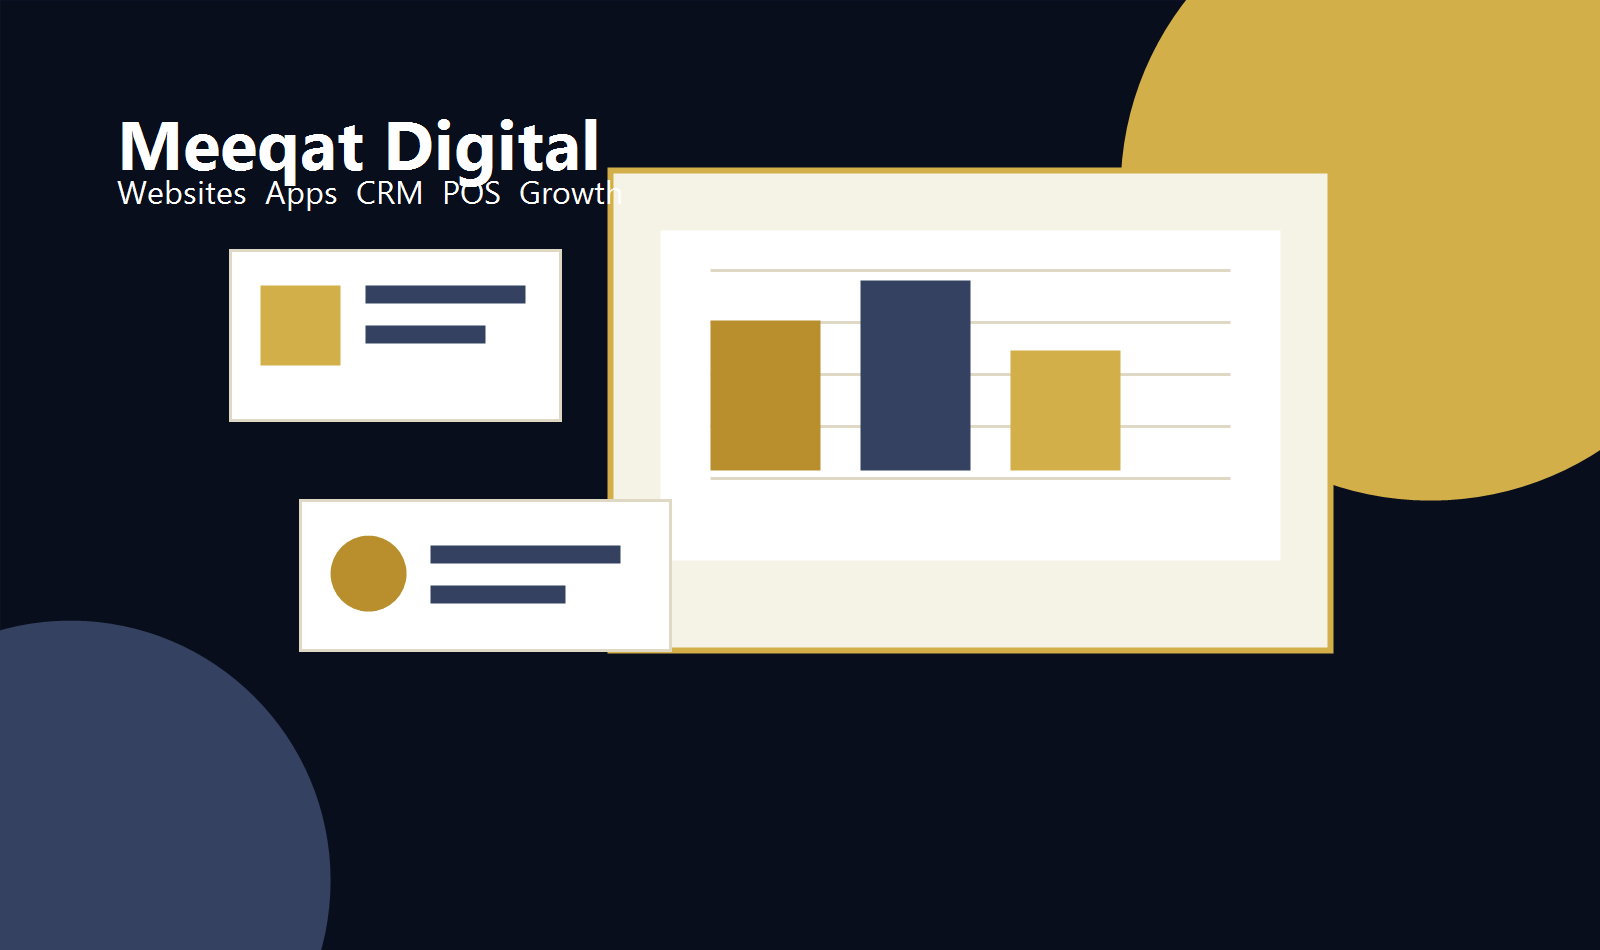
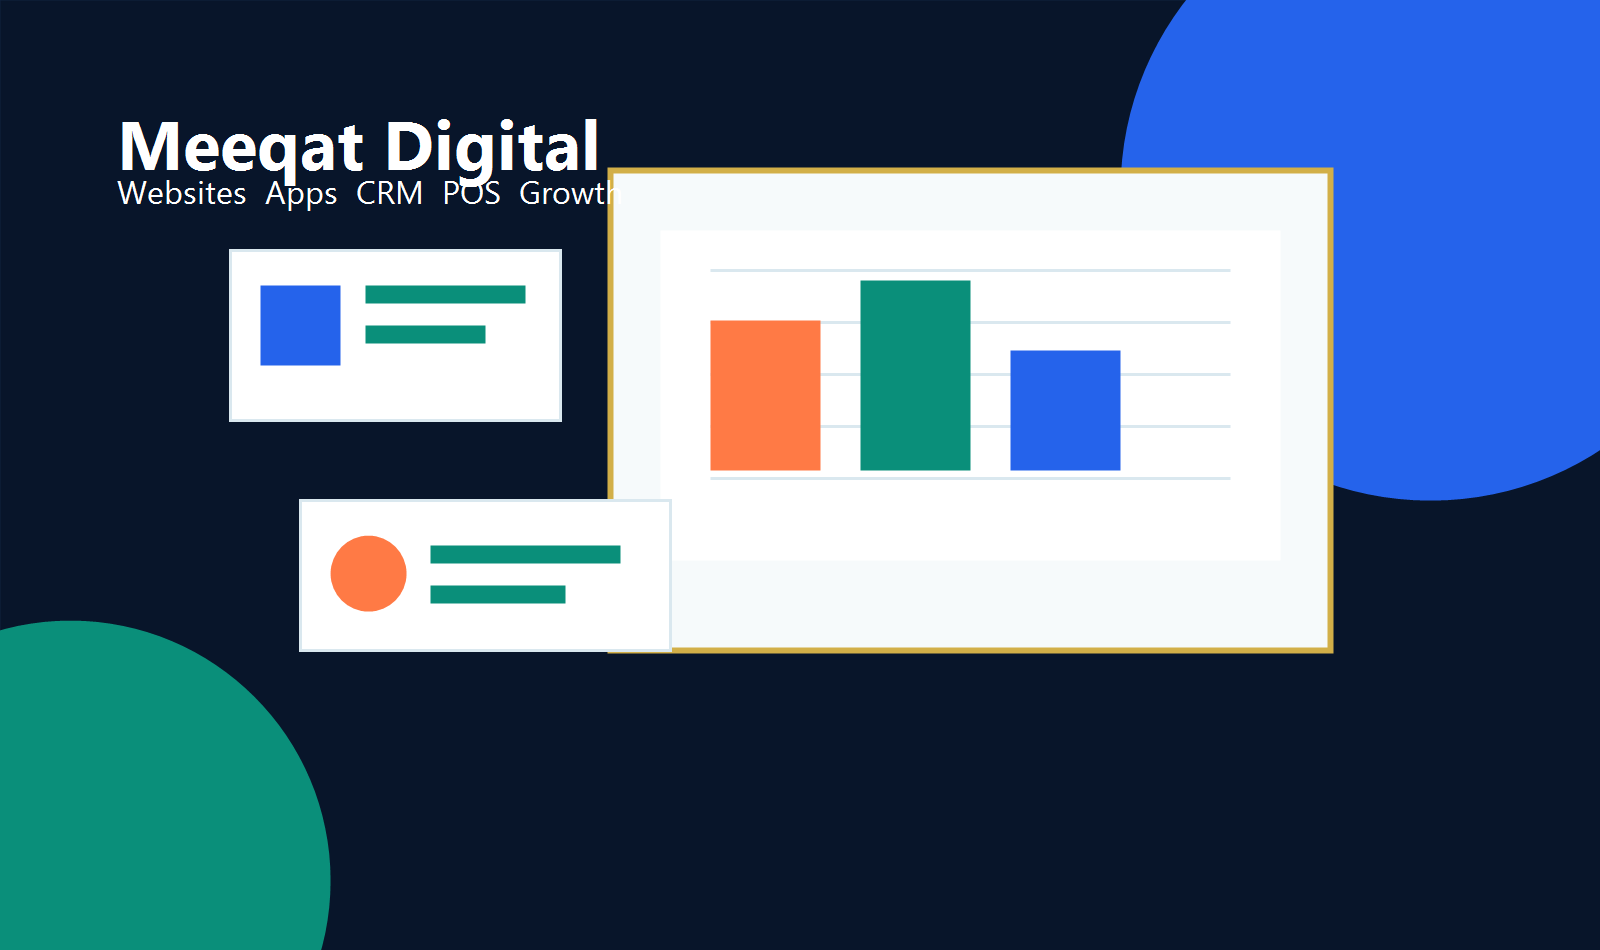
v2

diff --git a/styles.css b/styles.css
@@ -1,13 +1,14 @@
 :root {
-  --ink: #111827;
-  --muted: #5f6675;
-  --navy: #0f172a;
-  --green: #0f172a;
-  --teal: #d2af48;
+  --ink: #10212f;
+  --muted: #5a6a78;
+  --navy: #10233f;
+  --green: #0a8f7a;
+  --teal: #0fa7a0;
+  --blue: #2563eb;
   --gold: #d2af48;
-  --coral: #b98f2d;
-  --paper: #f8f7f1;
-  --line: #e2ddcb;
+  --coral: #ff7a45;
+  --paper: #f5f9fb;
+  --line: #dce8ef;
   --white: #ffffff;
   font-family: Inter, ui-sans-serif, system-ui, -apple-system, BlinkMacSystemFont, "Segoe UI", sans-serif;
   color: var(--ink);
@@ -41,7 +42,7 @@ textarea {
 
 .site-header {
   align-items: center;
-  background: rgba(247, 248, 243, 0.94);
+  background: rgba(245, 249, 251, 0.95);
   border-bottom: 1px solid var(--line);
   display: flex;
   gap: 18px;
@@ -65,7 +66,7 @@ textarea {
   align-items: center;
   background: var(--navy);
   border-radius: 8px;
-  border: 1px solid rgba(210, 175, 72, 0.35);
+  border: 1px solid rgba(210, 175, 72, 0.45);
   display: block;
   height: 46px;
   object-fit: contain;
@@ -125,9 +126,9 @@ nav a:hover,
 
 .header-action,
 .primary-button {
-  background: var(--gold);
-  border-color: var(--gold);
-  color: #1f1607;
+  background: var(--blue);
+  border-color: var(--blue);
+  color: var(--white);
 }
 
 .secondary-button {
@@ -154,7 +155,7 @@ nav a:hover,
 }
 
 .hero-overlay {
-  background: rgba(15, 23, 42, 0.56);
+  background: linear-gradient(90deg, rgba(16, 35, 63, 0.82), rgba(16, 35, 63, 0.42));
   inset: 0;
   position: absolute;
 }
@@ -166,7 +167,7 @@ nav a:hover,
 }
 
 .eyebrow {
-  color: var(--gold);
+  color: var(--coral);
   font-size: 13px;
   font-weight: 900;
   letter-spacing: 0;
@@ -195,7 +196,7 @@ nav a:hover,
 }
 
 .intro-band {
-  background: var(--navy);
+  background: linear-gradient(135deg, var(--navy), var(--blue));
   color: var(--white);
   padding: 28px clamp(16px, 6vw, 86px);
 }
@@ -248,7 +249,7 @@ nav a:hover,
 }
 
 .service-grid span {
-  color: var(--coral);
+  color: var(--blue);
   font-weight: 900;
 }
 
@@ -270,7 +271,7 @@ footer span {
 }
 
 .process {
-  background: #eef3ef;
+  background: #eaf5f4;
 }
 
 .timeline {
@@ -284,7 +285,7 @@ footer span {
 }
 
 .timeline strong {
-  color: var(--green);
+  color: var(--blue);
   display: block;
   font-size: 24px;
   margin-bottom: 8px;
@@ -308,14 +309,14 @@ footer span {
 }
 
 .metric-grid strong {
-  color: var(--teal);
+  color: var(--green);
   display: block;
   font-size: 26px;
   margin-bottom: 6px;
 }
 
 .contact-section {
-  background: var(--navy);
+  background: linear-gradient(135deg, var(--navy), #083f49 54%, var(--green));
   display: grid;
   gap: 24px;
   grid-template-columns: minmax(0, 0.8fr) minmax(320px, 0.95fr);
@@ -327,7 +328,7 @@ footer span {
 }
 
 .contact-card .eyebrow {
-  color: var(--coral);
+  color: var(--blue);
 }
 
 .contact-lines {
@@ -341,8 +342,68 @@ footer span {
 }
 
 .contact-lines a {
-  color: var(--teal);
+  color: var(--blue);
   font-weight: 800;
+}
+
+.social-links {
+  display: grid;
+  gap: 10px;
+  grid-template-columns: repeat(2, minmax(0, 1fr));
+  margin-top: 26px;
+}
+
+.social-link {
+  align-items: center;
+  background: #f8fbfc;
+  border: 1px solid var(--line);
+  border-radius: 8px;
+  color: var(--ink);
+  display: flex;
+  font-weight: 900;
+  gap: 10px;
+  min-height: 48px;
+  padding: 10px 12px;
+}
+
+.social-link:hover {
+  border-color: var(--blue);
+  transform: translateY(-1px);
+}
+
+.social-link span {
+  align-items: center;
+  border-radius: 7px;
+  color: var(--white);
+  display: inline-flex;
+  font-size: 12px;
+  height: 28px;
+  justify-content: center;
+  min-width: 28px;
+}
+
+.whatsapp span {
+  background: #20b15a;
+}
+
+.email span {
+  background: var(--blue);
+}
+
+.instagram span {
+  background: #d9467c;
+}
+
+.facebook span {
+  background: #1877f2;
+}
+
+.linkedin span {
+  background: #0a66c2;
+}
+
+.youtube span {
+  background: #ff0033;
 }
 
 .enquiry-form {
@@ -351,7 +412,7 @@ footer span {
 }
 
 label {
-  color: #31453f;
+  color: #2c4054;
   display: grid;
   font-weight: 800;
   gap: 8px;
@@ -381,7 +442,7 @@ textarea {
 
 footer {
   align-items: center;
-  background: #0b1020;
+  background: #09152a;
   color: var(--white);
   display: flex;
   gap: 12px;
@@ -422,7 +483,8 @@ footer {
 
   .service-grid,
   .timeline,
-  .metric-grid {
+  .metric-grid,
+  .social-links {
     grid-template-columns: 1fr;
   }
 

diff --git a/index.html b/index.html
@@ -8,7 +8,7 @@
       name="description"
       content="Meeqat Digital Consulting helps businesses across India build websites, custom applications, mobile apps, WhatsApp CRM, POS systems, Job Cart solutions, and digital marketing campaigns."
     />
-    <meta name="keywords" content="Meeqat Digital Consulting, website development, mobile apps, WhatsApp CRM, POS systems, digital marketing, Job Cart solutions, Tamil Nadu" />
+    <meta name="keywords" content="Meeqat Digital Consulting, website development, mobile apps, WhatsApp CRM, POS systems, digital marketing, Job Cart solutions, Krishnagiri Tamil Nadu" />
     <meta property="og:title" content="Meeqat Digital Consulting" />
     <meta property="og:description" content="Digital solutions for businesses across India: websites, apps, CRM, POS, marketing, and automation." />
     <meta property="og:image" content="assets/meeqat-logo.png" />
@@ -146,6 +146,32 @@
             <p><strong>Email:</strong> <a href="mailto:syedshabudeen@gmail.com">syedshabudeen@gmail.com</a></p>
             <p><strong>WhatsApp:</strong> <a href="https://wa.me/919629047680" target="_blank" rel="noopener">9629047680</a></p>
             <p><strong>Location:</strong> Krishnagiri, Tamil Nadu, India</p>
+          </div>
+          <div class="social-links" aria-label="Social media links">
+            <a class="social-link whatsapp" href="https://wa.me/919629047680" target="_blank" rel="noopener">
+              <span>WA</span>
+              WhatsApp
+            </a>
+            <a class="social-link email" href="mailto:syedshabudeen@gmail.com">
+              <span>@</span>
+              Email
+            </a>
+            <a class="social-link instagram" href="https://www.instagram.com/" target="_blank" rel="noopener">
+              <span>IG</span>
+              Instagram
+            </a>
+            <a class="social-link facebook" href="https://www.facebook.com/" target="_blank" rel="noopener">
+              <span>FB</span>
+              Facebook
+            </a>
+            <a class="social-link linkedin" href="https://www.linkedin.com/" target="_blank" rel="noopener">
+              <span>IN</span>
+              LinkedIn
+            </a>
+            <a class="social-link youtube" href="https://www.youtube.com/" target="_blank" rel="noopener">
+              <span>YT</span>
+              YouTube
+            </a>
           </div>
         </div>
 
